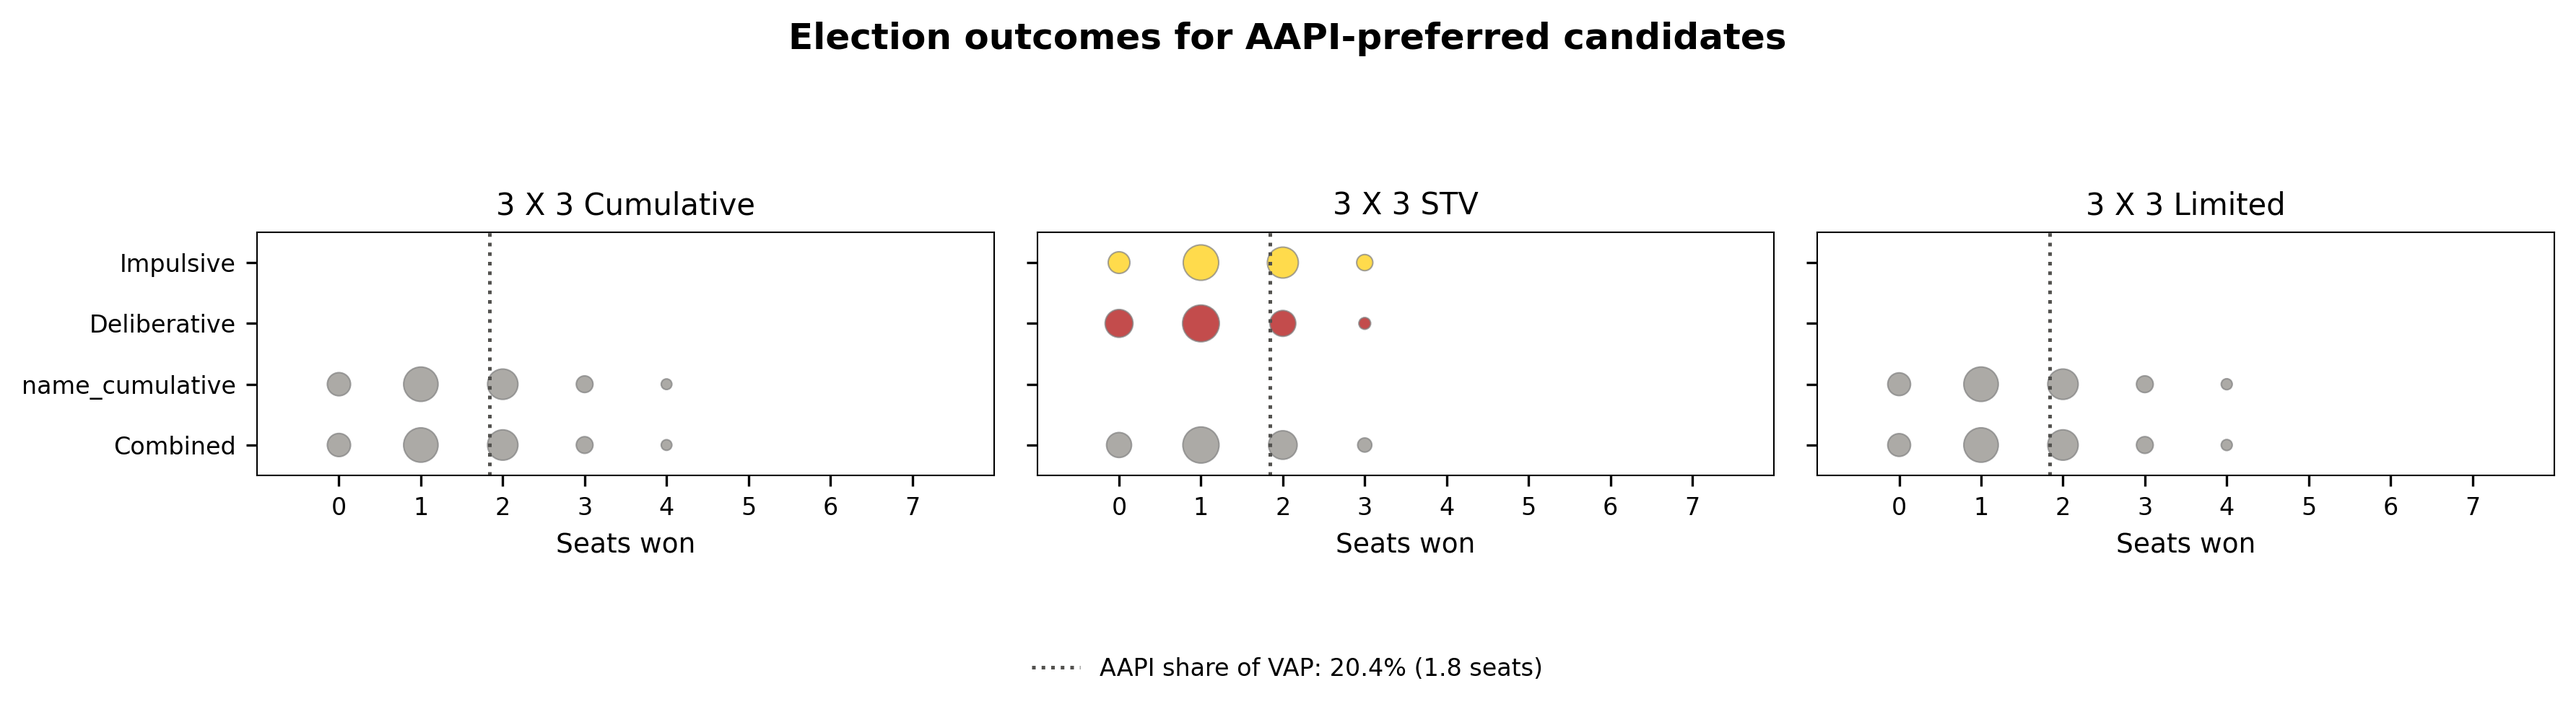
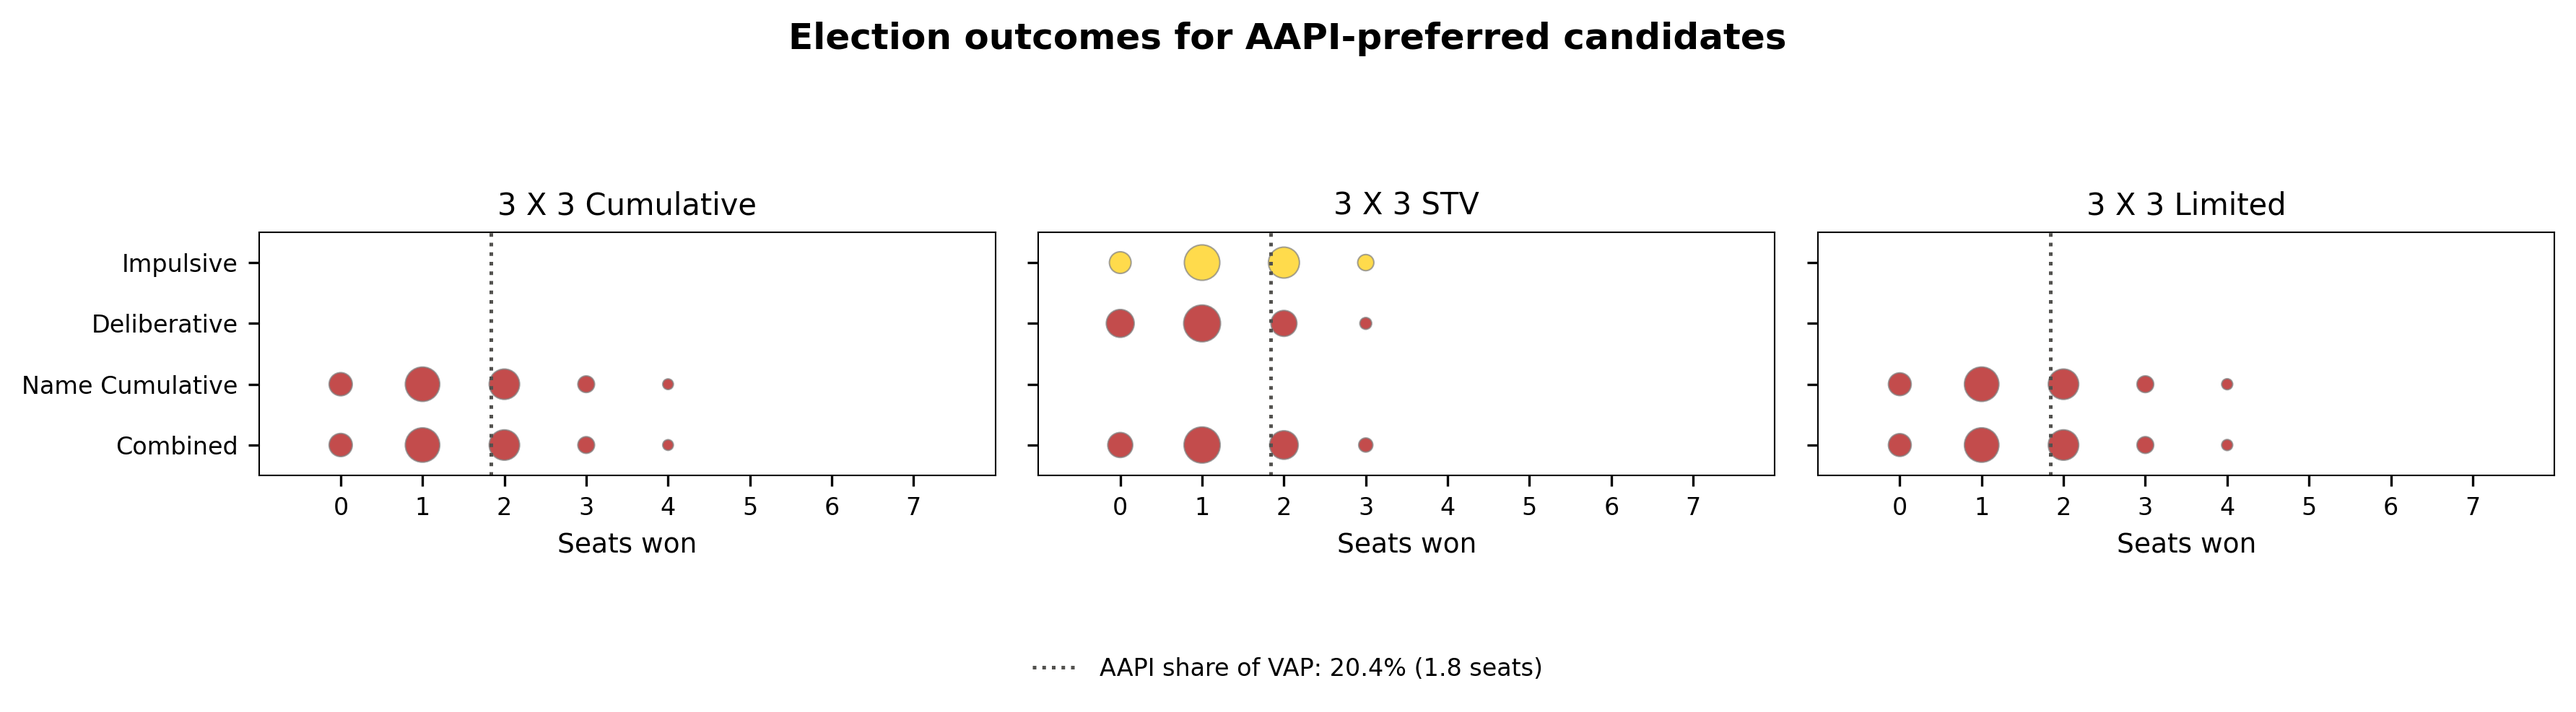
WIP

diff --git a/pipeline/summarize_results.py b/pipeline/summarize_results.py
@@ -51,6 +51,7 @@ LEGEND_MAPPING = {
     "slate_pl": "Impulsive",
     "slate_bt": "Deliberative",
     "cambridge": "Cambridge",
+    "name_cumulative": "Name Cumulative",
 }
 
 # Pseudo-mode pooling occurrences across every voter model into one row.
@@ -58,13 +59,15 @@ COMBINED_MODE = "combined"
 LEGEND_MAPPING[COMBINED_MODE] = "Combined"
 
 # Preferred display order for the known voter models; any others sort after.
-DESIRED_ORDER = ["slate_pl", "slate_bt", "cambridge"]
+DESIRED_ORDER = ["slate_pl", "slate_bt", "cambridge", "name_cumulative"]
 
 # Bubble marker areas (points^2): most-frequent cell uses the max, a floor keeps
 # rare cells visible.
 BUBBLE_MAX_AREA = 150
 BUBBLE_MIN_AREA = 10
-BUBBLE_COLOR = "#898781"  # fallback fill for a mode not in MODE_COLORS
+# San Diego red -- the fallback fill for a mode with no MODE_COLORS entry of its
+# own (e.g. name_cumulative, the score-ballot model Cumulative/Limited run on).
+DEFAULT_MODE_COLOR = "#AA0000"
 PROP_LINE_COLOR = "#52514e"  # focal-group proportional-representation reference line
 
 # Seat-axis tick spacing. Seats are integers and these plans are small, so every
@@ -308,7 +311,7 @@ def _draw_mode_histograms(ax, group_distn: pd.DataFrame, seat_col: str = "focal_
             width=bar_width,
             edgecolor=BAR_EDGE_COLOR,
             linewidth=0.9,
-            color=MODE_COLORS.get(mode, "xkcd:light gray"),
+            color=MODE_COLORS.get(mode, DEFAULT_MODE_COLOR),
             alpha=BAR_ALPHA,
             label=mode,
         )
@@ -885,6 +888,26 @@ def _modes_in_display_order(present_modes) -> List[str]:
     return individual + ([COMBINED_MODE] if COMBINED_MODE in present else [])
 
 
+def _method_modes_in_order(mode_values) -> List[str]:
+    """
+    Row order for a bubble panel showing a single election method: that method's
+    own real voter models, plus the pooled Combined row only when there is more
+    than one of them to pool.
+
+    _occurrence_counts always synthesizes a Combined row per method, even when
+    only one voter model produced it (Cumulative and Limited both run on the
+    single name_cumulative model) -- pooling one model with itself is a no-op,
+    so that row is dropped rather than shown as a redundant duplicate. Without
+    this, a single-model method's panel would also inherit whichever other
+    modes happened to run under other methods in the same figure (Impulsive,
+    Deliberative, ...), showing up as rows with no bubbles at all.
+    """
+    real_modes = set(mode_values) - {COMBINED_MODE}
+    if len(real_modes) > 1:
+        real_modes.add(COMBINED_MODE)
+    return _modes_in_display_order(real_modes)
+
+
 def _draw_method_bubbles(ax, method_counts, modes_in_order, size_scale, iprop, config, x_upper):
     """
     Draw the bubble grid (mode x seats, area sized by occurrence count) for one
@@ -900,7 +923,7 @@ def _draw_method_bubbles(ax, method_counts, modes_in_order, size_scale, iprop, c
             sub["focal_seats"],
             [y_index[mode]] * len(sub),
             s=BUBBLE_MIN_AREA + sub["count"] * size_scale,
-            color=MODE_COLORS.get(mode, BUBBLE_COLOR),
+            color=MODE_COLORS.get(mode, DEFAULT_MODE_COLOR),
             alpha=0.7,
             edgecolor="gray",
             linewidth=0.5,
@@ -1012,8 +1035,13 @@ def _plot_bubbles_for_config(df_plan, config, iprop, figs_dir, run_name, num_dis
 
     if len(methods) > 1:
         for method in methods:
+            # This method's own rows, not the whole run's -- a single-model
+            # method (Cumulative, Limited) would otherwise inherit empty rows
+            # left over from other methods sharing the combined figure's axis.
+            method_counts = counts[counts["election_method"] == method]
+            method_modes = _method_modes_in_order(method_counts["mode"].unique())
             _render_method_bubbles_figure(
-                counts, [method], modes_in_order, size_scale, iprop, config, x_upper,
+                counts, [method], method_modes, size_scale, iprop, config, x_upper,
                 _figure_subtitle(run_name, method_labels[method], len(methods)),
                 _method_figs_dir(figs_dir, method)
                 / f"{run_name}_{num_dist}x{seats_per_district}_bubbles.png",
@@ -1125,11 +1153,6 @@ def plot_combined_bubbles_all_runs(config, output_dir=None, exclude_runs=None) -
     total_seats = max(int(config["total_seats"]), observed_max_seats)
     i_share = iprop * total_seats
 
-    all_modes: set = set()
-    for _, c in runs:
-        all_modes.update(c["mode"].unique())
-    modes_in_order = _modes_in_display_order(all_modes)
-
     x_upper = _seat_axis_upper(max(observed_max_seats, i_share), total_seats)
     x_ticks = range(0, x_upper + 1, X_TICK_STEP)
 
@@ -1145,9 +1168,13 @@ def plot_combined_bubbles_all_runs(config, output_dir=None, exclude_runs=None) -
     )
     axes = [a[0] for a in axes]
 
-    y_index = {mode: i for i, mode in enumerate(modes_in_order)}
     for ax, (label, per_mode) in zip(axes, runs):
-        for mode in modes_in_order:
+        # This panel's own rows, not every run/method's -- a single-model
+        # method (Cumulative, Limited) would otherwise inherit empty rows left
+        # over from other panels in the same stacked figure.
+        panel_modes = _method_modes_in_order(per_mode["mode"].unique())
+        y_index = {mode: i for i, mode in enumerate(panel_modes)}
+        for mode in panel_modes:
             sub = per_mode[per_mode["mode"] == mode]
             if sub.empty:
                 continue
@@ -1159,16 +1186,16 @@ def plot_combined_bubbles_all_runs(config, output_dir=None, exclude_runs=None) -
                 sub["focal_seats"],
                 [y_index[mode]] * len(sub),
                 s=BUBBLE_MIN_AREA + sub["count"] * row_scale,
-                color=MODE_COLORS.get(mode, BUBBLE_COLOR),
+                color=MODE_COLORS.get(mode, DEFAULT_MODE_COLOR),
                 alpha=0.7,
                 edgecolor="gray",
                 linewidth=0.5,
             )
         ax.axvline(i_share, color=PROP_LINE_COLOR, linestyle=":", linewidth=1.2)
         ax.set_xlim(-1, x_upper + 1)
-        ax.set_ylim(len(modes_in_order) - 0.5, -0.5)  # inverted: first mode on top
-        ax.set_yticks(range(len(modes_in_order)))
-        ax.set_yticklabels([LEGEND_MAPPING.get(m, m) for m in modes_in_order], fontsize=TICK_SIZE)
+        ax.set_ylim(len(panel_modes) - 0.5, -0.5)  # inverted: first mode on top
+        ax.set_yticks(range(len(panel_modes)))
+        ax.set_yticklabels([LEGEND_MAPPING.get(m, m) for m in panel_modes], fontsize=TICK_SIZE)
         ax.set_xticks(x_ticks)
         ax.set_xticklabels([str(x) for x in x_ticks], fontsize=TICK_SIZE)
         ax.tick_params(axis="both", which="major", labelsize=TICK_SIZE)
